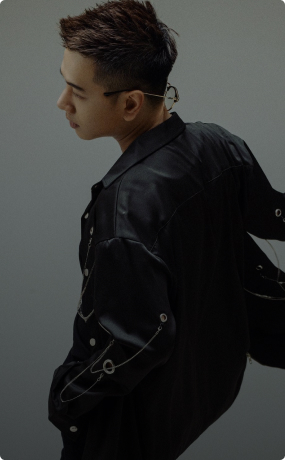
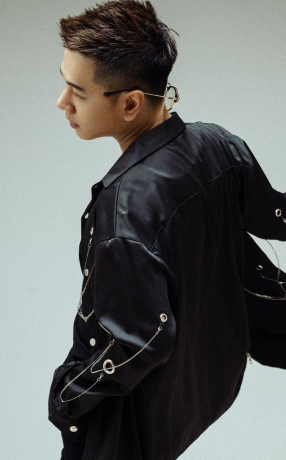
update

diff --git a/css/style.css b/css/style.css
@@ -881,6 +881,10 @@ li {
 
 .main__work .container__fluid .work__wrap .work__slide .work__slide-img img {
   border-radius: 5px;
+  -webkit-filter: brightness(70%);
+          filter: brightness(70%);
+  -webkit-transition: all 0.4s ease;
+  transition: all 0.4s ease;
 }
 
 .main__work .container__fluid .work__wrap .work__slide .work__slide-name {
@@ -888,6 +892,17 @@ li {
   opacity: 0.6;
   text-align: center;
   margin-top: 30px;
+  -webkit-transition: all 0.4s ease;
+  transition: all 0.4s ease;
+}
+
+.main__work .container__fluid .work__wrap .work__slide:hover .work__slide-img img {
+  -webkit-filter: brightness(100%);
+          filter: brightness(100%);
+}
+
+.main__work .container__fluid .work__wrap .work__slide:hover .work__slide-name {
+  opacity: 1;
 }
 
 .main__work .container__fluid .work__wrap .owl-item {

diff --git a/css/layout/_work.scss b/css/layout/_work.scss
@@ -57,6 +57,8 @@
         .work__slide-img {
           img {
             border-radius: 5px;
+            filter: brightness(70%);
+            transition: all 0.4s ease;
           }
         }
         .work__slide-name {
@@ -64,6 +66,17 @@
           opacity: 0.6;
           text-align: center;
           margin-top: 30px;
+          transition: all 0.4s ease;
+        }
+        &:hover {
+          .work__slide-img {
+            img {
+              filter: brightness(100%);
+            }
+          }
+          .work__slide-name {
+            opacity: 1;
+          }
         }
       }
       .owl-item {

diff --git a/css/layout/_responsive.scss b/css/layout/_responsive.scss
@@ -462,8 +462,8 @@
               }
               .banner__img {
                 .banner__img-main {
-                  animation-name: fadeIn ;
-                  animation-delay: 0.3s;
+                    animation-name: fadeIn ;
+                    animation-delay: 0.3s;
                 }
               }
             }
